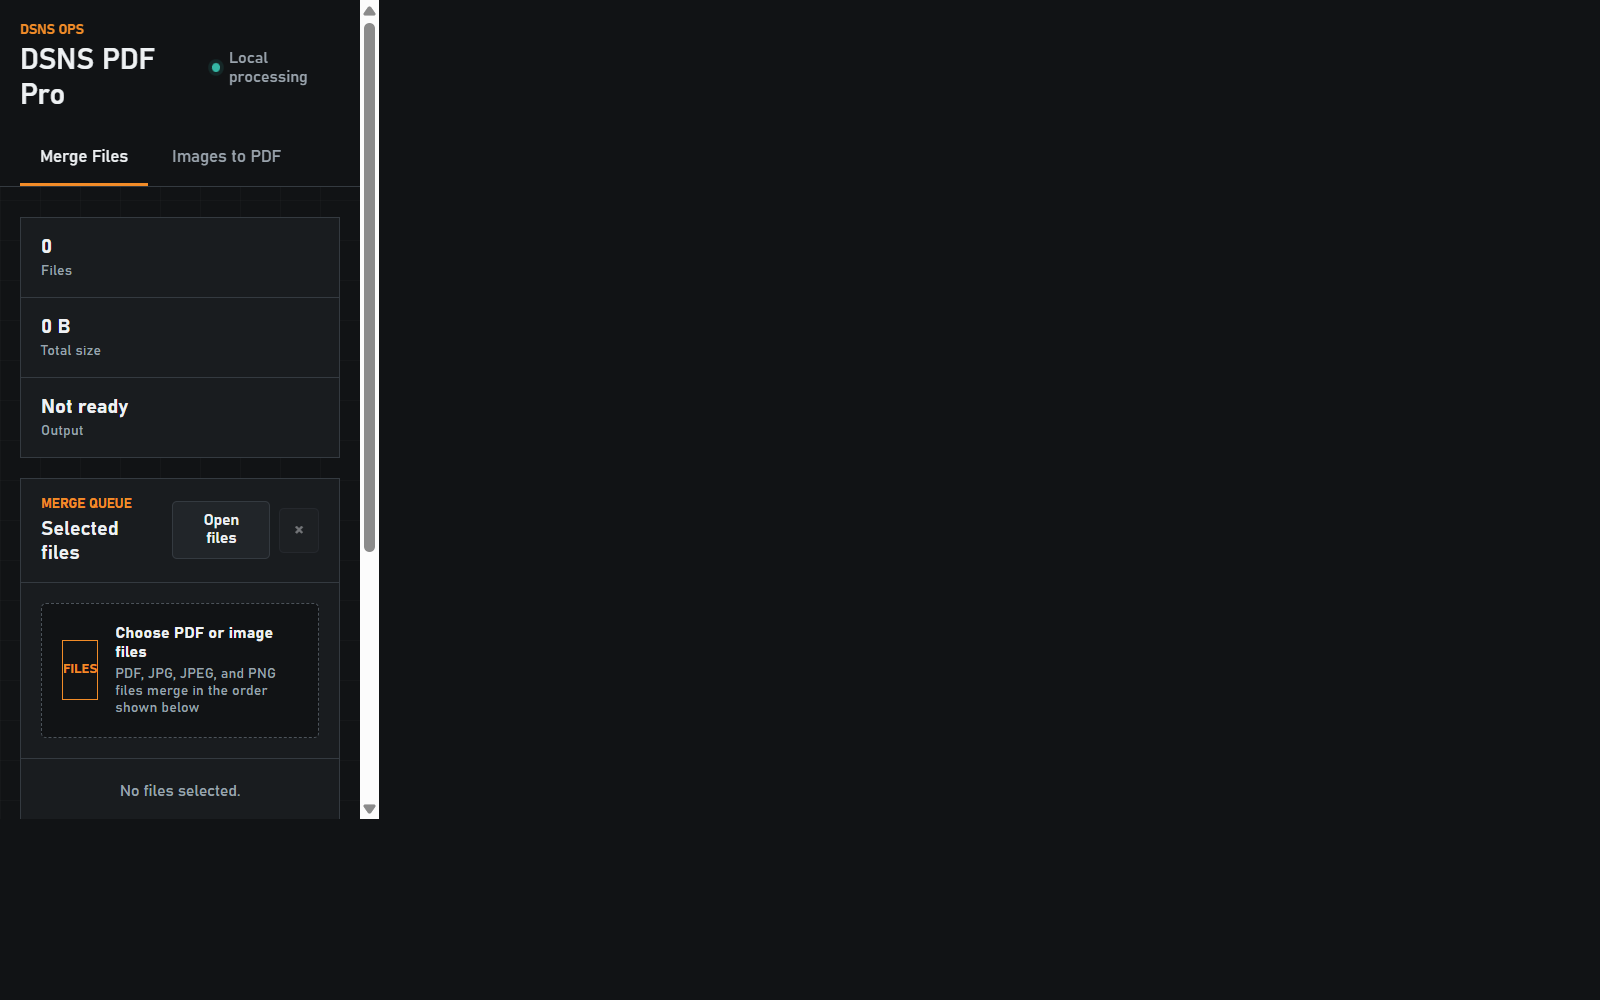
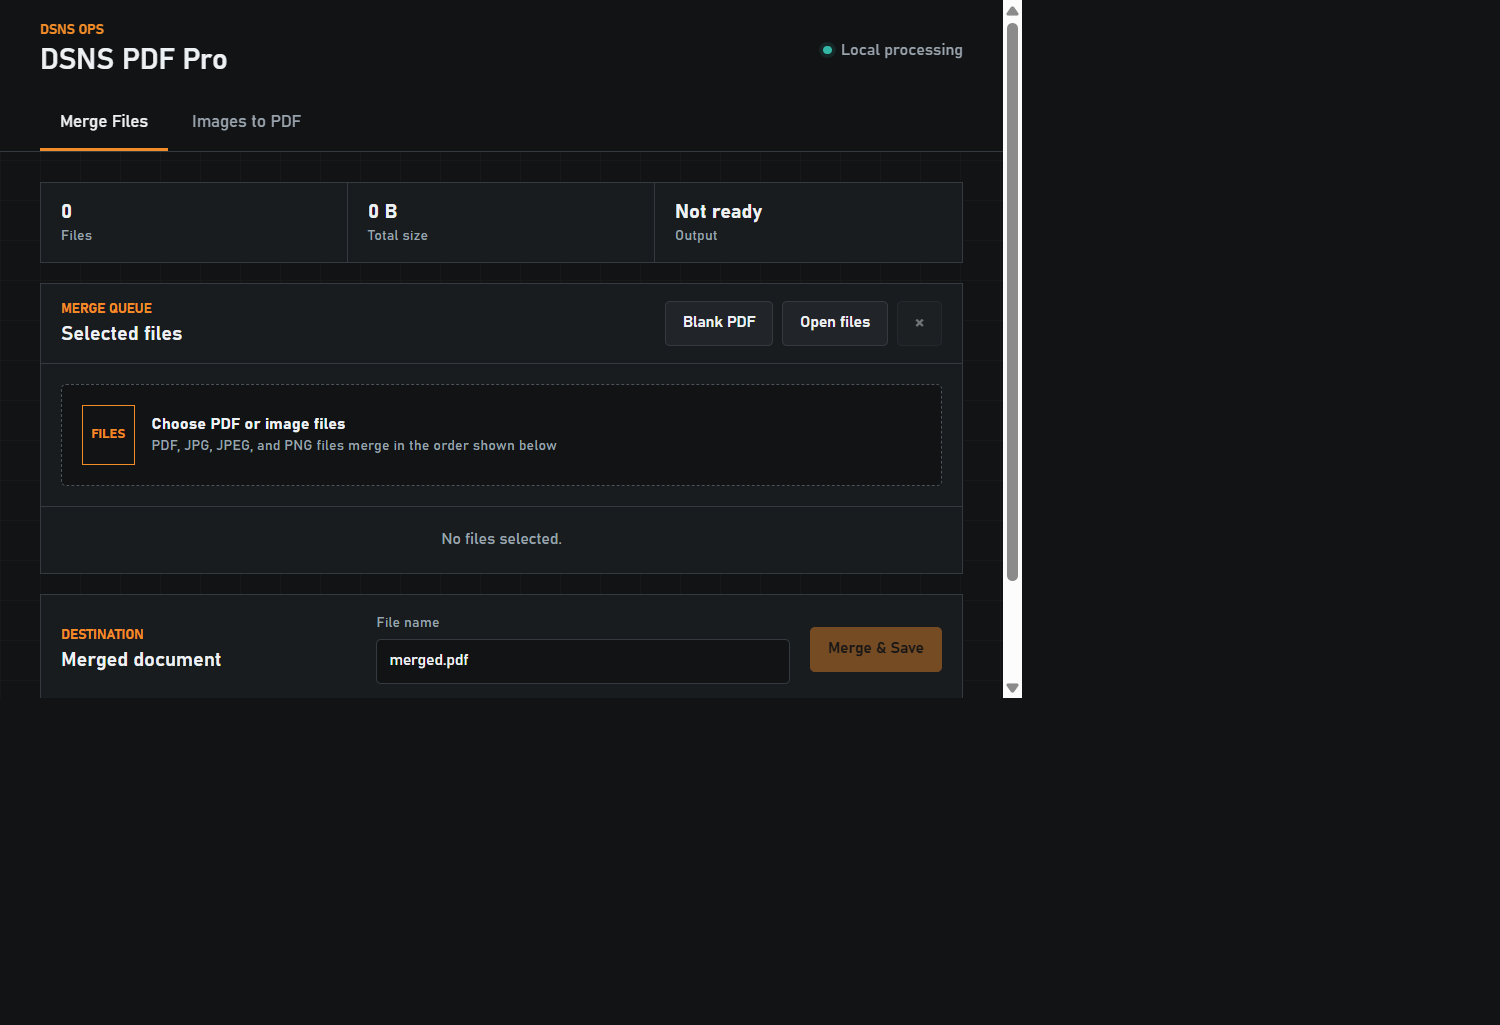
Add blank PDF generation
Add a one-click blank A4 PDF workflow, endpoint coverage, save fallback handling, and updated documentation.

diff --git a/static/workflows.js b/static/workflows.js
@@ -52,6 +52,7 @@ const state = {
 
 const elements = {
   background: document.querySelector("#background"),
+  blankButton: document.querySelector("#blank-button"),
   clearButton: document.querySelector("#clear-button"),
   dropDescription: document.querySelector("#drop-description"),
   dropMark: document.querySelector("#drop-mark"),
@@ -124,6 +125,7 @@ function setBusy(busy) {
   const ready = files.length >= currentConfig().minimumFiles;
   elements.progress.hidden = !busy;
   elements.progress.setAttribute("aria-hidden", String(!busy));
+  elements.blankButton.disabled = busy;
   elements.openButton.disabled = busy;
   elements.clearButton.disabled = busy || files.length === 0;
   elements.mergeButton.disabled = busy || !ready;
@@ -208,17 +210,34 @@ function moveFile(from, to) {
   render();
 }
 
-async function chooseSaveHandle() {
-  if (!("showSaveFilePicker" in window)) {
+async function chooseSaveHandle(fileName = outputFileName()) {
+  if (typeof window.showSaveFilePicker !== "function") {
     return null;
   }
   return window.showSaveFilePicker({
-    suggestedName: outputFileName(),
+    suggestedName: fileName,
     types: [{
       description: "PDF document",
       accept: { "application/pdf": [".pdf"] },
     }],
   });
+}
+
+async function saveBlob(blob, saveHandle, fileName) {
+  if (saveHandle) {
+    const writable = await saveHandle.createWritable();
+    await writable.write(blob);
+    await writable.close();
+    setMessage(`Saved ${fileName} (${formatBytes(blob.size)}).`, "success");
+  } else {
+    const url = URL.createObjectURL(blob);
+    const link = document.createElement("a");
+    link.href = url;
+    link.download = fileName;
+    link.click();
+    URL.revokeObjectURL(url);
+    setMessage(`Download started for ${fileName}.`, "success");
+  }
 }
 
 function appendImageOptions(formData) {
@@ -259,20 +278,7 @@ async function processAndSave() {
     }
 
     const blob = await response.blob();
-    if (saveHandle) {
-      const writable = await saveHandle.createWritable();
-      await writable.write(blob);
-      await writable.close();
-      setMessage(`Saved ${outputFileName()} (${formatBytes(blob.size)}).`, "success");
-    } else {
-      const url = URL.createObjectURL(blob);
-      const link = document.createElement("a");
-      link.href = url;
-      link.download = outputFileName();
-      link.click();
-      URL.revokeObjectURL(url);
-      setMessage(`Download started for ${outputFileName()}.`, "success");
-    }
+    await saveBlob(blob, saveHandle, outputFileName());
   } catch (error) {
     setMessage(error.message, "error");
   } finally {
@@ -281,10 +287,43 @@ async function processAndSave() {
   }
 }
 
+async function createBlankPdf() {
+  const fileName = "blank.pdf";
+  let saveHandle;
+  try {
+    saveHandle = await chooseSaveHandle(fileName);
+  } catch (error) {
+    if (error.name === "AbortError") {
+      setMessage("Save canceled.");
+      return;
+    }
+    setMessage(`Could not choose the output location: ${error.message}`, "error");
+    return;
+  }
+
+  setBusy(true);
+  setMessage("Creating a blank A4 PDF...");
+  try {
+    const formData = new FormData();
+    formData.append("output_name", fileName);
+    const response = await fetch("/api/blank-pdf", { method: "POST", body: formData });
+    if (!response.ok) {
+      const body = await response.json().catch(() => ({}));
+      throw new Error(body.error || `Processing failed with HTTP ${response.status}.`);
+    }
+    await saveBlob(await response.blob(), saveHandle, fileName);
+  } catch (error) {
+    setMessage(error.message, "error");
+  } finally {
+    setBusy(false);
+  }
+}
+
 document.querySelectorAll("button[data-mode]").forEach((button) => {
   button.addEventListener("click", () => switchMode(button.dataset.mode));
 });
 elements.openButton.addEventListener("click", () => elements.fileInput.click());
+elements.blankButton.addEventListener("click", createBlankPdf);
 elements.dropZone.addEventListener("click", () => elements.fileInput.click());
 elements.fileInput.addEventListener("change", () => addFiles(elements.fileInput.files));
 elements.outputName.addEventListener("input", () => {

diff --git a/static/index.html b/static/index.html
@@ -35,6 +35,7 @@
           <h2 id="workspace-title">Selected files</h2>
         </div>
         <div class="toolbar">
+          <button id="blank-button" class="button secondary" type="button" title="Create a one-page blank A4 PDF">Blank PDF</button>
           <button id="open-button" class="button secondary" type="button">Open files</button>
           <button id="clear-button" class="icon-button" type="button" title="Clear selected files" aria-label="Clear selected files" disabled>×</button>
           <input id="file-input" type="file" accept="application/pdf,image/jpeg,image/png,.pdf,.jpg,.jpeg,.png" multiple hidden>

diff --git a/app.py b/app.py
@@ -184,6 +184,18 @@ def build_output(uploads, *, image_only: bool) -> io.BytesIO:
         writer.close()
 
 
+def build_blank_pdf() -> io.BytesIO:
+    writer = PdfWriter()
+    try:
+        writer.add_blank_page(width=A4[0], height=A4[1])
+        output = io.BytesIO()
+        writer.write(output)
+        output.seek(0)
+        return output
+    finally:
+        writer.close()
+
+
 @app.get("/")
 def index():
     return app.send_static_file("index.html")
@@ -222,6 +234,17 @@ def images_to_pdf():
         mimetype="application/pdf",
         as_attachment=True,
         download_name=safe_output_name(request.form.get("output_name") or "images.pdf"),
+        max_age=0,
+    )
+
+
+@app.post("/api/blank-pdf")
+def blank_pdf():
+    return send_file(
+        build_blank_pdf(),
+        mimetype="application/pdf",
+        as_attachment=True,
+        download_name=safe_output_name(request.form.get("output_name") or "blank.pdf"),
         max_age=0,
     )
 

diff --git a/test_app.py b/test_app.py
@@ -124,5 +124,18 @@ def test_images_to_pdf_supports_transparency_and_landscape_letter():
     ]
 
 
+def test_blank_pdf_creates_one_a4_page():
+    client = app.test_client()
+    response = client.post("/api/blank-pdf", data={"output_name": "notes"})
+
+    assert response.status_code == 200
+    assert response.mimetype == "application/pdf"
+    assert response.headers["Content-Disposition"] == "attachment; filename=notes.pdf"
+    reader = PdfReader(io.BytesIO(response.data))
+    assert len(reader.pages) == 1
+    page = reader.pages[0]
+    assert (round(float(page.mediabox.width)), round(float(page.mediabox.height))) == (595, 842)
+
+
 def test_output_name_is_sanitized():
     assert safe_output_name("../quarter:final") == "quarter_final.pdf"

diff --git a/README.md b/README.md
@@ -4,7 +4,7 @@
 [![License: MIT](https://img.shields.io/badge/License-MIT-yellow.svg)](LICENSE.txt)
 [![Python 3.11+](https://img.shields.io/badge/Python-3.11%2B-3776AB.svg)](https://www.python.org/)
 
-Lightweight local Flask application for merging PDF and image files in a browser-selected order. Its visual language matches Grafana Migration Verifier.
+Lightweight local Flask application for merging PDF and image files, converting images to PDF, and generating a blank PDF page. Its visual language matches Grafana Migration Verifier.
 
 The project lives at `Productivity/projects/pdf-pro` and displays **DSNS OPS** branding in the application header.
 
@@ -14,13 +14,20 @@ The project lives at `Productivity/projects/pdf-pro` and displays **DSNS OPS** b
 
 - **Merge Files** combines PDF, JPG, JPEG, and PNG files in one ordered queue.
 - **Images to PDF** converts one or more JPG, JPEG, or PNG images into a PDF.
+- **Blank PDF** creates a single-page blank portrait A4 document without requiring an input file.
 - **Merge Files** requires at least two files; **Images to PDF** requires at least one image.
 - Reorder or remove files independently in either tab. Queues and output names are retained when switching tabs.
 - Configure image page size, orientation, margins, fit mode, and transparent-pixel background.
 - Apply EXIF orientation automatically before conversion.
 - Merge entirely through the local Flask process without retaining uploads.
-- Choose the output filename and destination with Microsoft Edge's native save picker.
+- Choose the output filename and destination for merged and converted documents with Microsoft Edge's native save picker. Blank documents use `blank.pdf` as the suggested name.
 - Fall back to a normal browser download when the File System Access API is unavailable.
+
+## Usage
+
+- Select **Merge Files**, add at least two PDF or image files, arrange them in output order, choose a filename, and select **Merge & Save**.
+- Select **Images to PDF**, add one or more images, configure the page layout, choose a filename, and select **Convert & Save**.
+- Select **Blank PDF** from either tab to create and save one blank portrait A4 page as `blank.pdf`.
 
 ## Image layout
 
